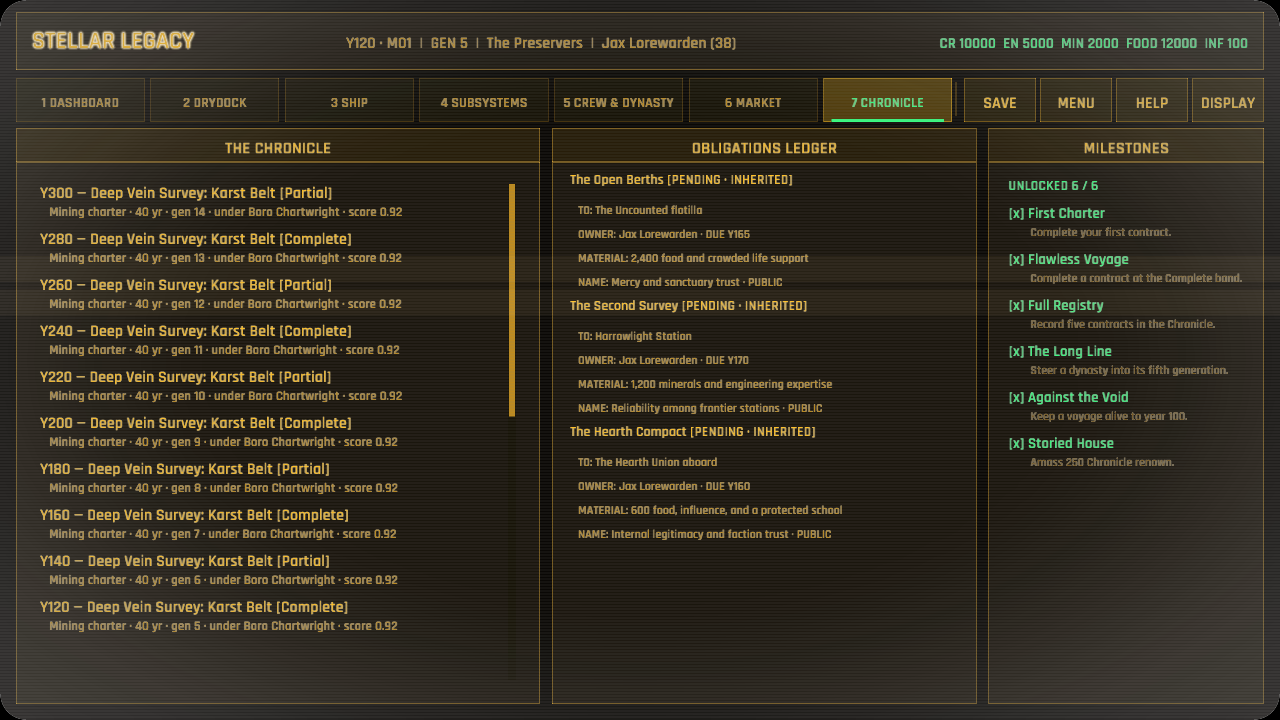
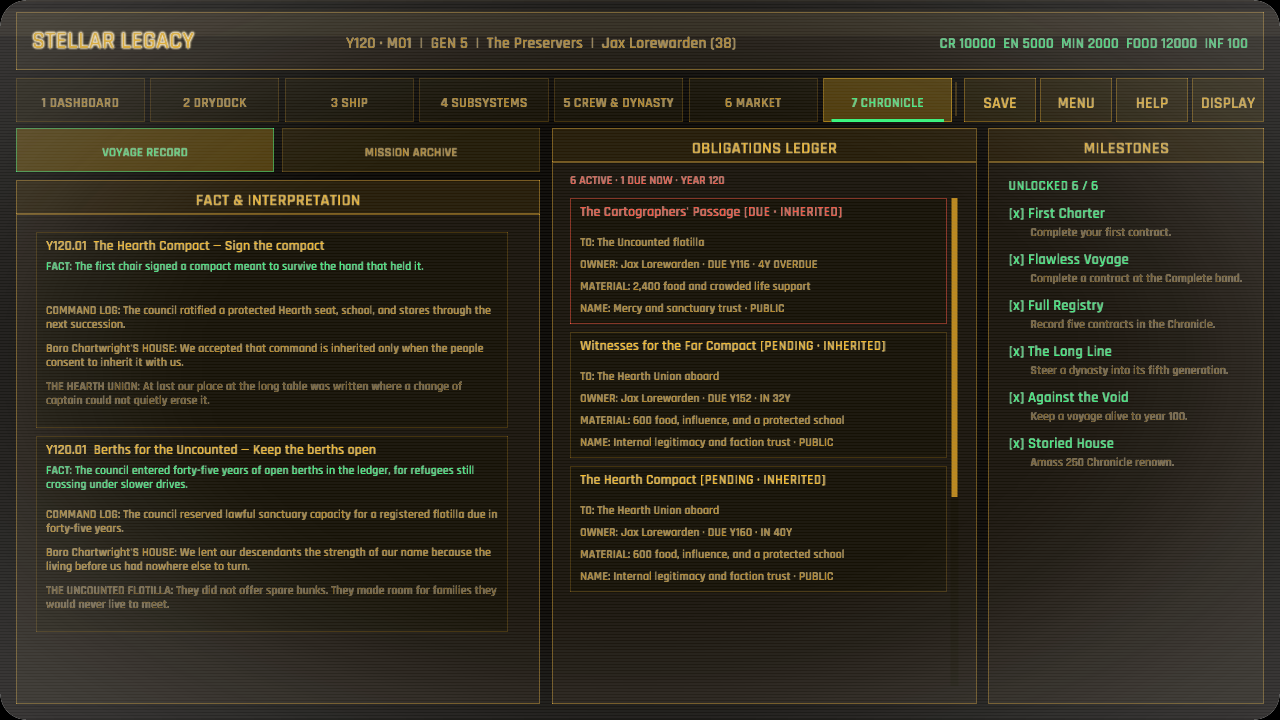
No promise slips beneath the Chronicle's lower edge (obligations ledger scrolling and due priority)
The active-duty ledger rendered every obligation into a fixed column without scrolling, leaving later promises present in the simulation but unreachable to the player. It now has independent touch/mouse scroll state, orders overdue duties first, summarizes active and due counts, and states exact years overdue or remaining. The deterministic Chronicle capture carries six duties to verify real overflow, and the full publisher passes.

Changed region(s): [[0.0, 0.1528, 0.4062, 0.8861], [0.4375, 0.2444, 0.6875, 0.825], [0.7188, 0.275, 0.75, 0.7028]]

diff --git a/src/ui/chronicle.rs b/src/ui/chronicle.rs
@@ -25,7 +25,7 @@ pub fn draw(ctx: &GameplayCtx<'_>, area: Rect, pointer: Pointer, _actions: &mut 
         area.h,
     );
     draw_archive(ctx, left, pointer);
-    draw_obligations(ctx, ledger);
+    draw_obligations(ctx, ledger, pointer);
     draw_milestones(ctx, right);
 }
 
@@ -185,27 +185,99 @@ fn draw_decision_records(ctx: &GameplayCtx<'_>, area: Rect, pointer: Pointer) {
     ctx.chronicle_scroll.set(scroll);
 }
 
-fn draw_obligations(ctx: &GameplayCtx<'_>, area: Rect) {
+fn draw_obligations(ctx: &GameplayCtx<'_>, area: Rect, pointer: Pointer) {
     term_panel(area, Some("OBLIGATIONS LEDGER"));
     let content = area.inset(18.0);
-    let mut y = content.y + 38.0;
-    let obligations: Vec<_> = ctx.sim.active_obligations().collect();
+    let mut obligations: Vec<_> = ctx.sim.active_obligations().collect();
     if obligations.is_empty() {
         draw_text_block(
             "No active duties. Promises created by councils and charters will remain here until honoured, revised, defaulted, or voided.",
-            content.x, y, content.w, 90.0, 13.0, 4.0, term::dim(),
+            content.x, content.y + 38.0, content.w, 90.0, 13.0, 4.0, term::dim(),
         );
         return;
     }
+
+    let year = ctx.sim.year();
+    let overdue_ids: Vec<_> = ctx
+        .sim
+        .due_obligations()
+        .into_iter()
+        .map(|obligation| obligation.id.as_str())
+        .collect();
+    let is_overdue =
+        |obligation: &crate::state::sim::Obligation| overdue_ids.contains(&obligation.id.as_str());
+    obligations.sort_by_key(|obligation| {
+        (
+            !is_overdue(obligation),
+            obligation.due_year.unwrap_or(u32::MAX),
+            obligation.created_year,
+            obligation.id.as_str(),
+        )
+    });
+    let overdue_count = obligations
+        .iter()
+        .filter(|obligation| is_overdue(obligation))
+        .count();
+    draw_ui_text_ex(
+        &format!(
+            "{} ACTIVE · {} DUE NOW · YEAR {year:03}",
+            obligations.len(),
+            overdue_count
+        ),
+        content.x,
+        content.y + 38.0,
+        TextStyle::new(
+            12.0,
+            if overdue_count > 0 {
+                term::alert()
+            } else {
+                term::accent()
+            },
+        )
+        .params(),
+    );
+
+    const ROW_H: f32 = 126.0;
+    const ROW_GAP: f32 = 8.0;
+    let view = Rect::new(
+        content.x,
+        content.y + 52.0,
+        content.w,
+        content.bottom() - content.y - 52.0,
+    );
+    let content_h = obligations.len() as f32 * (ROW_H + ROW_GAP) - ROW_GAP;
+    let mut scroll = ctx.obligations_scroll.get();
+    scroll.update_at(view, content_h, pointer.position);
+    let mut y = view.y - scroll.offset();
     for obligation in obligations {
-        let overdue = ctx
-            .sim
-            .due_obligations()
-            .iter()
-            .any(|due| due.id == obligation.id);
+        let overdue = is_overdue(obligation);
+        let row = Rect::new(view.x, y, view.w - GUTTER, ROW_H);
+        y += ROW_H + ROW_GAP;
+        if !is_fully_visible(row, view) {
+            continue;
+        }
+        draw_rectangle(row.x, row.y, row.w, row.h, term::surface_inset());
+        draw_rectangle_lines(
+            row.x,
+            row.y,
+            row.w,
+            row.h,
+            1.0,
+            if overdue {
+                term::alert()
+            } else {
+                term::faint()
+            },
+        );
         let due = obligation
             .due_year
-            .map(|year| format!("Y{year:03}"))
+            .map(|due_year| {
+                if due_year <= year {
+                    format!("Y{due_year:03} · {}Y OVERDUE", year - due_year)
+                } else {
+                    format!("Y{due_year:03} · IN {}Y", due_year - year)
+                }
+            })
             .unwrap_or_else(|| "OPEN".to_owned());
         let inherited = if obligation.successions_crossed > 0 {
             " · INHERITED"
@@ -223,8 +295,8 @@ fn draw_obligations(ctx: &GameplayCtx<'_>, area: Rect) {
                 },
                 inherited
             ),
-            content.x,
-            y,
+            row.x + 10.0,
+            row.y + 18.0,
             TextStyle::new(
                 14.0,
                 if overdue {
@@ -235,7 +307,7 @@ fn draw_obligations(ctx: &GameplayCtx<'_>, area: Rect) {
             )
             .params(),
         );
-        y += 18.0;
+        let mut line_y = row.y + 36.0;
         for line in [
             format!("TO: {}", obligation.beneficiary),
             format!("OWNER: {} · DUE {due}", obligation.responsible),
@@ -248,18 +320,25 @@ fn draw_obligations(ctx: &GameplayCtx<'_>, area: Rect) {
         ] {
             draw_text_block(
                 &line,
-                content.x + 8.0,
-                y,
-                content.w - 8.0,
+                row.x + 10.0,
+                line_y,
+                row.w - 20.0,
                 28.0,
                 11.0,
                 2.0,
                 term::dim(),
             );
-            y += 24.0;
+            line_y += 22.0;
         }
-        y += 12.0;
     }
+    scroll.draw_scrollbar_with(
+        view,
+        content_h,
+        term::surface_inset(),
+        term::dim(),
+        term::primary(),
+    );
+    ctx.obligations_scroll.set(scroll);
 }
 
 fn draw_mission_archive(ctx: &GameplayCtx<'_>, area: Rect, pointer: Pointer) {

diff --git a/src/game.rs b/src/game.rs
@@ -141,6 +141,9 @@ pub struct Game {
     chronicle_scroll: Cell<ScrollArea>,
     /// CHRONICLE sub-tab: current voyage records or completed mission archive.
     chronicle_records_tab: Cell<bool>,
+    /// Smooth-scroll state for active duties. Obligations accumulate independently
+    /// of the record/archive sub-tab and must remain reachable on long voyages.
+    obligations_scroll: Cell<ScrollArea>,
     /// Smooth-scroll state for the homecoming debrief's chain-of-command list:
     /// a century-long charter can pass through more captains than the panel
     /// holds, and the point of the list is that none of them is dropped.
@@ -232,6 +235,7 @@ impl Game {
             roster_scroll: Cell::new(ScrollArea::new()),
             chronicle_scroll: Cell::new(ScrollArea::new()),
             chronicle_records_tab: Cell::new(true),
+            obligations_scroll: Cell::new(ScrollArea::new()),
             debrief_commanders_scroll: Cell::new(ScrollArea::new()),
             debrief_log_scroll: Cell::new(ScrollArea::new()),
             ship_modules_tab: Cell::new(false),
@@ -506,6 +510,7 @@ impl Game {
                     roster_scroll: &self.roster_scroll,
                     chronicle_scroll: &self.chronicle_scroll,
                     chronicle_records_tab: &self.chronicle_records_tab,
+                    obligations_scroll: &self.obligations_scroll,
                     debrief_commanders_scroll: &self.debrief_commanders_scroll,
                     debrief_log_scroll: &self.debrief_log_scroll,
                     ship_modules_tab: &self.ship_modules_tab,

diff --git a/src/game/capture_scenes.rs b/src/game/capture_scenes.rs
@@ -428,6 +428,23 @@ impl Game {
                         );
                     }
                 }
+                // The ledger must prove that active duties beyond the visible
+                // rows remain reachable, including a mixture of timed and open
+                // promises. Capture-only copies avoid altering authored data.
+                let obligation_samples = sim.obligations.clone();
+                for (index, original) in obligation_samples.iter().cycle().take(3).enumerate() {
+                    let mut sample = original.clone();
+                    sample.id = format!("capture-obligation-{index}");
+                    sample.authored_id = format!("capture-duty-{index}");
+                    sample.title = [
+                        "The Cartographers' Passage",
+                        "Rain for the Glass Gardens",
+                        "Witnesses for the Far Compact",
+                    ][index]
+                        .to_owned();
+                    sample.due_year = (index != 1).then_some(116 + index as u32 * 18);
+                    sim.obligations.push(sample);
+                }
                 let heir = sim
                     .dynasty
                     .members

diff --git a/src/ui/shell.rs b/src/ui/shell.rs
@@ -47,6 +47,8 @@ pub struct GameplayCtx<'a> {
     /// Chronicle sub-tab: `true` shows the current voyage's competing decision
     /// records; `false` shows the cross-campaign mission archive.
     pub chronicle_records_tab: &'a std::cell::Cell<bool>,
+    /// Smooth-scroll state for the active obligations ledger.
+    pub obligations_scroll: &'a std::cell::Cell<macroquad_toolkit::ui::ScrollArea>,
     /// Smooth-scroll state for the homecoming debrief's chain-of-command list —
     /// a long charter passes through more captains than the panel holds.
     pub debrief_commanders_scroll: &'a std::cell::Cell<macroquad_toolkit::ui::ScrollArea>,
